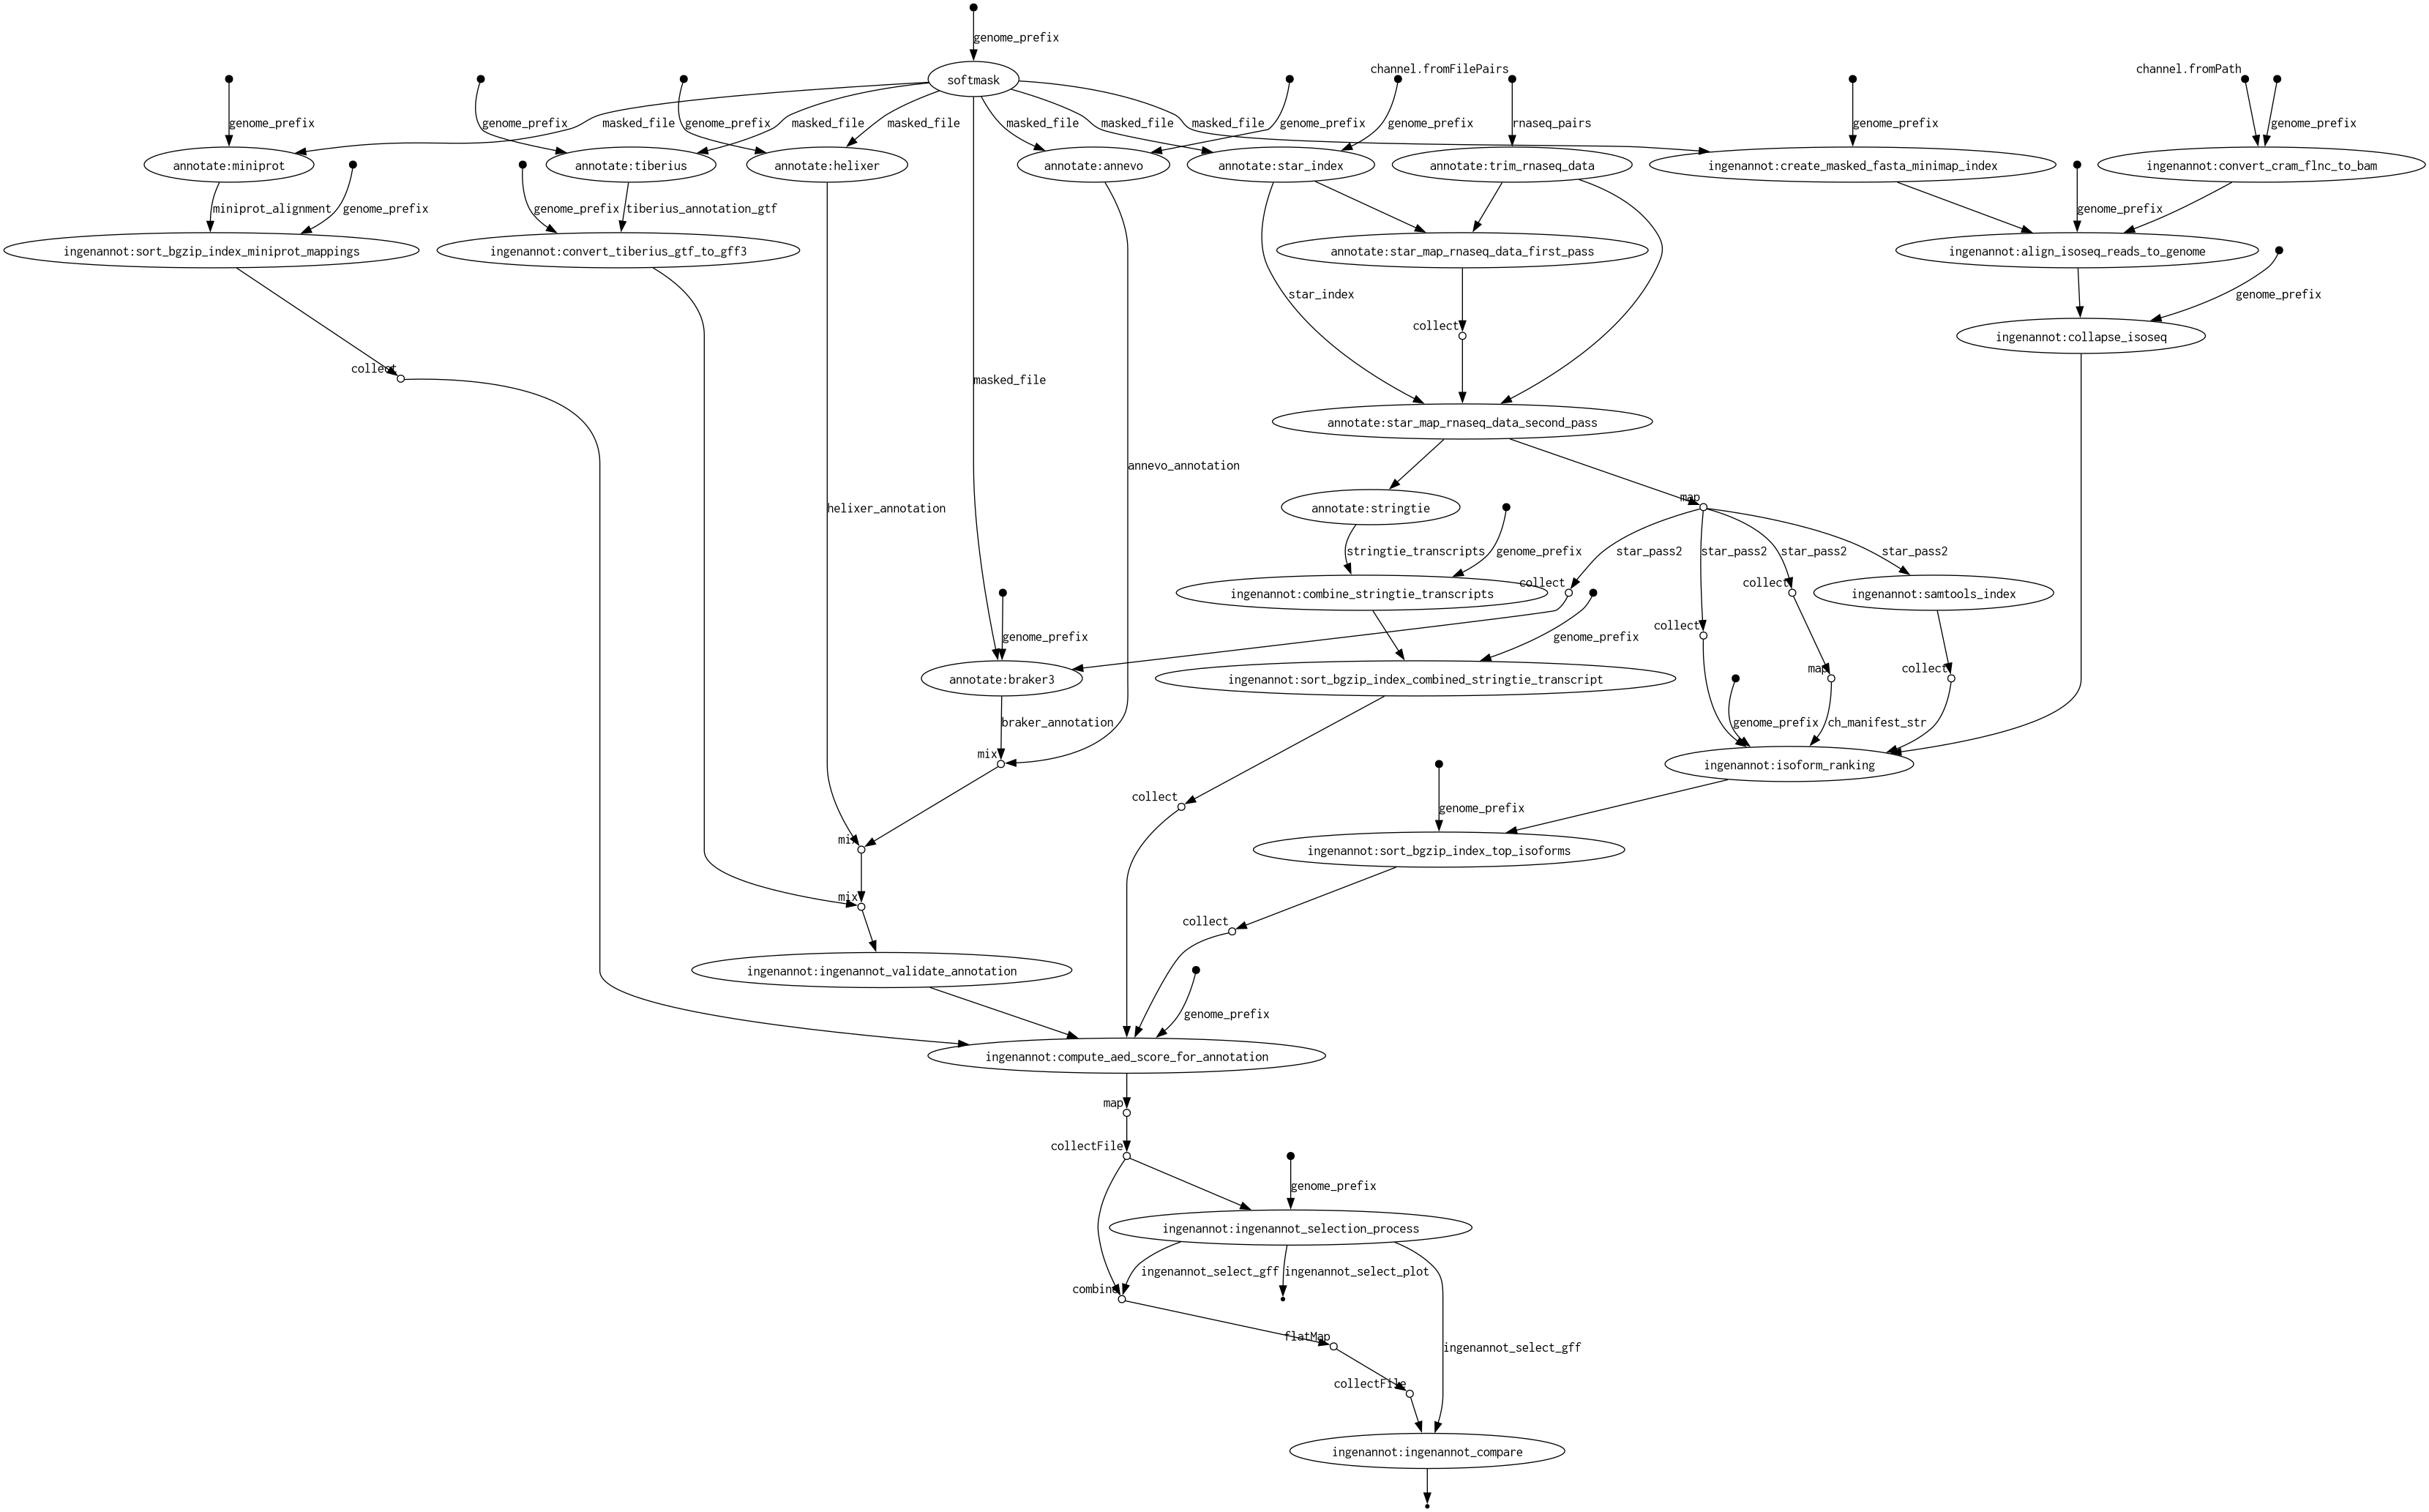
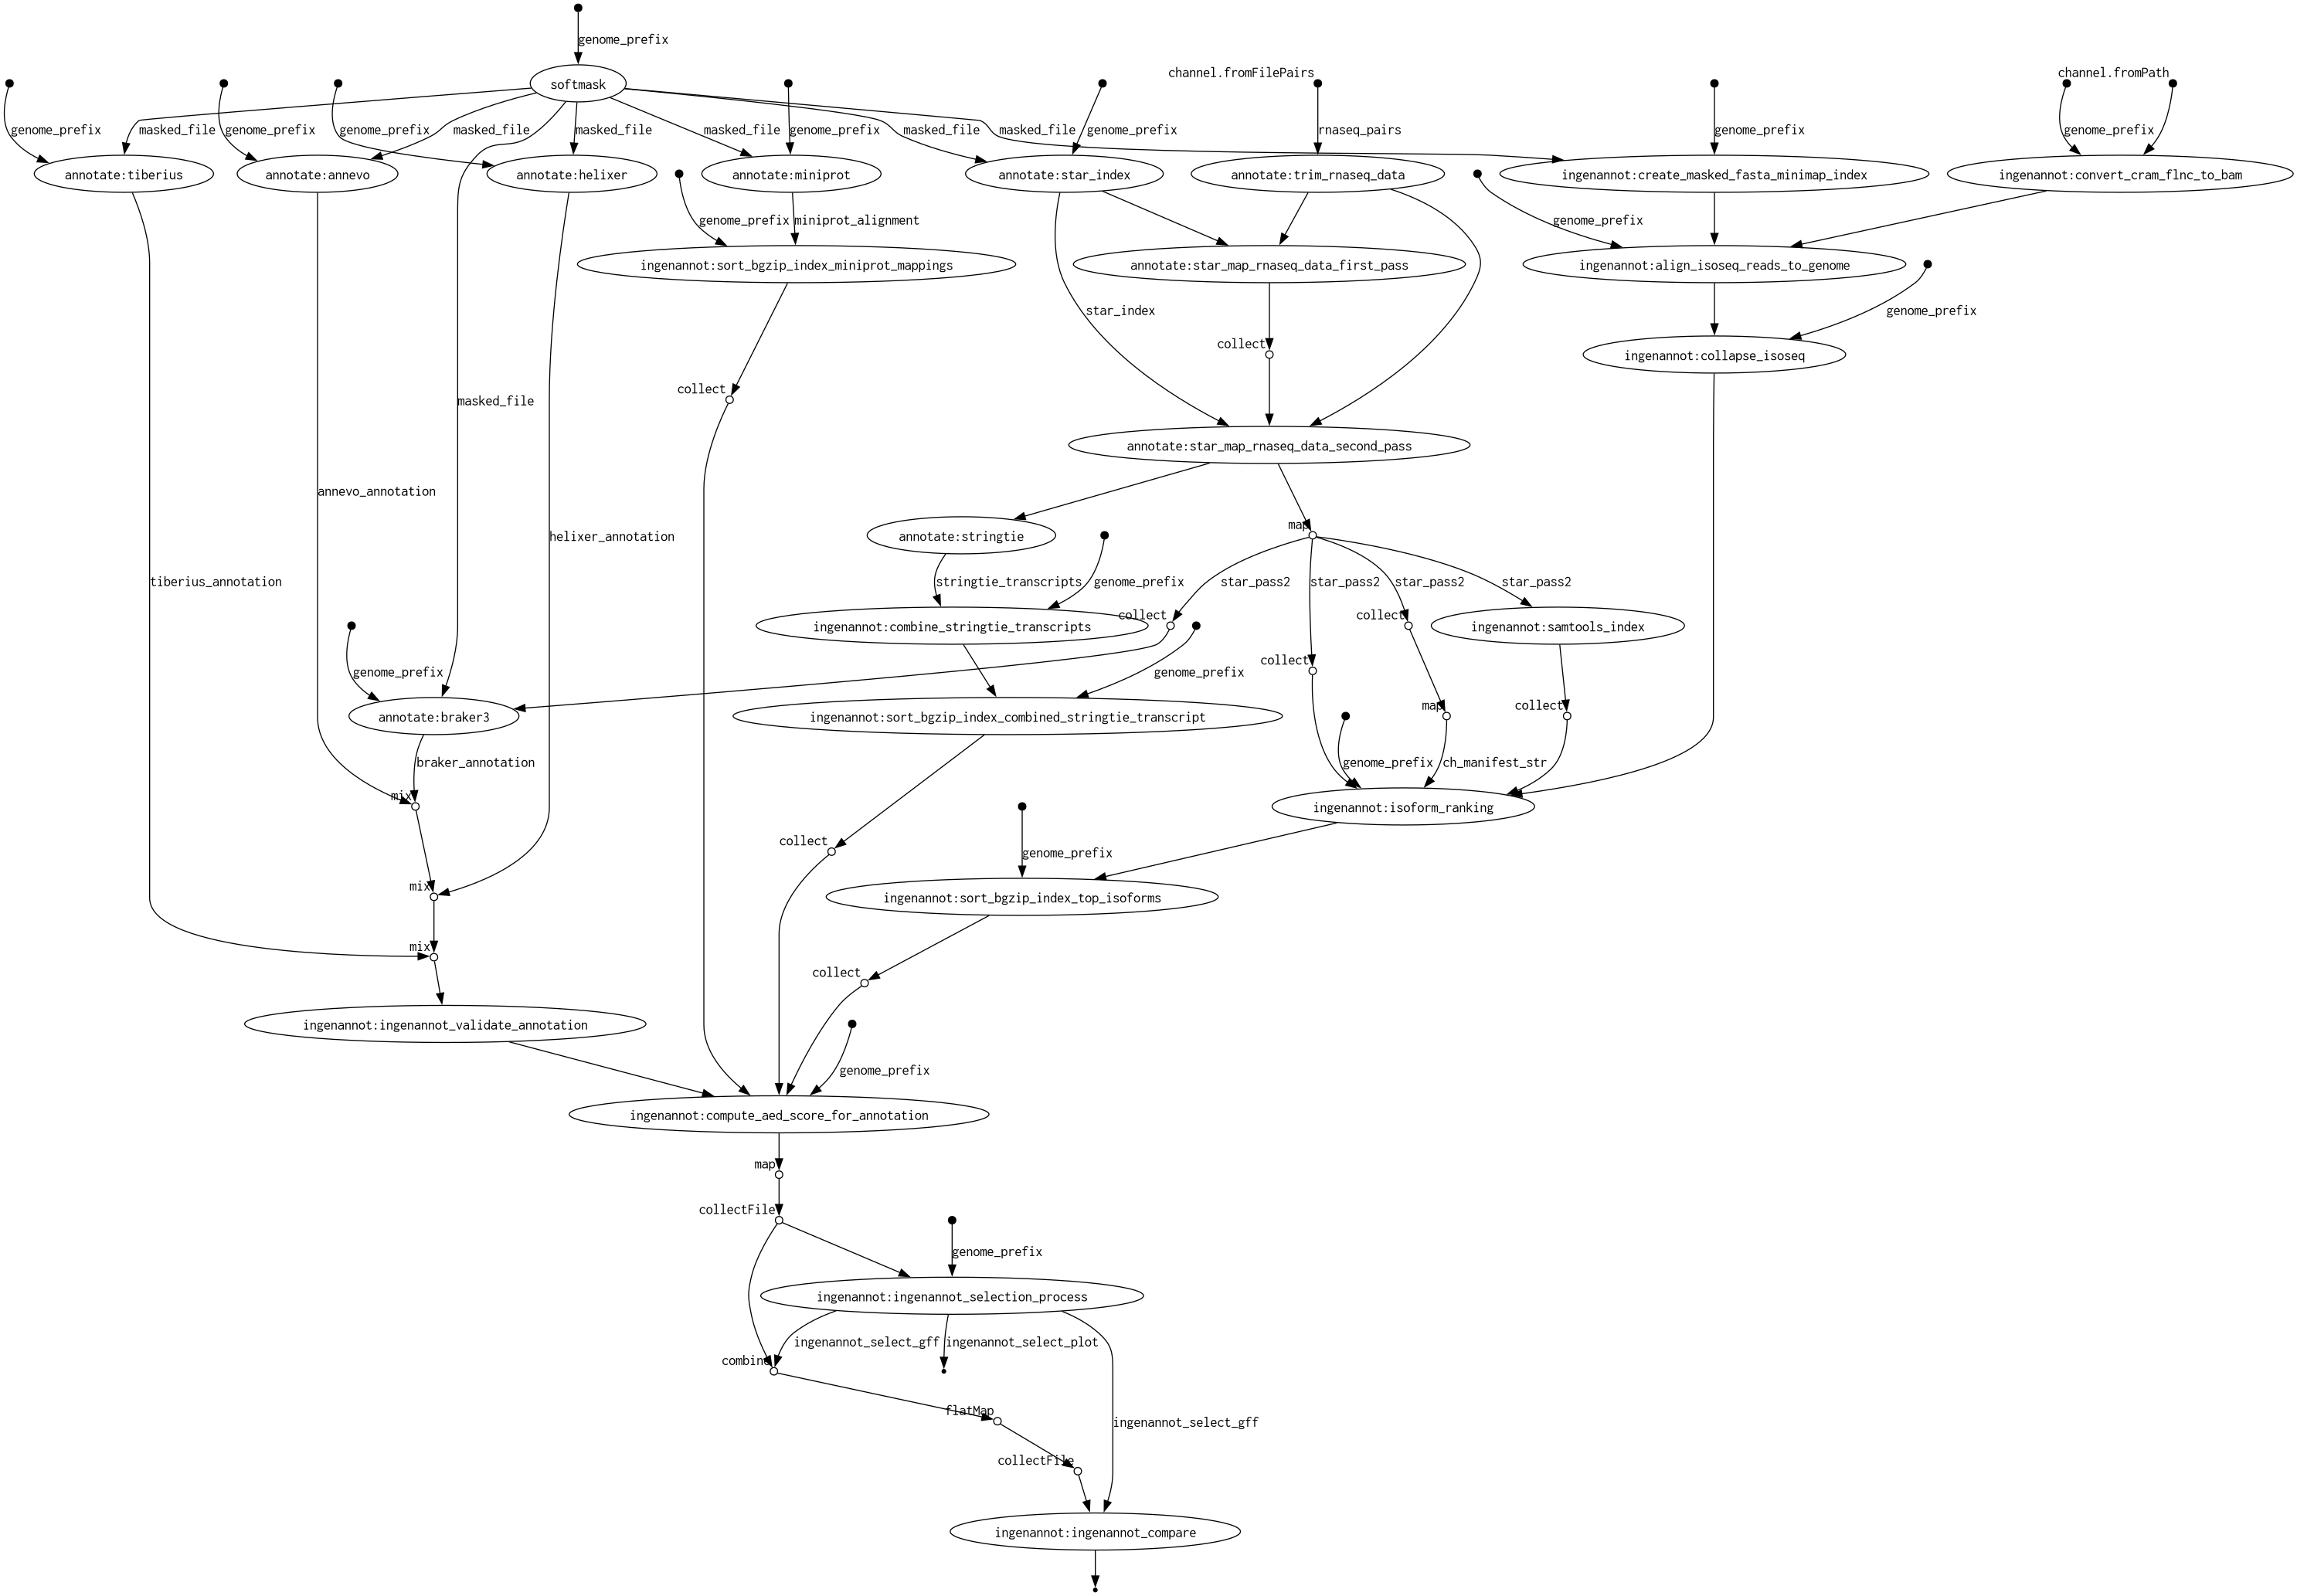
Tiberius 1.1.8 and 2.0.6

diff --git a/LICENSE.md b/LICENSE.md
@@ -1,5 +1,3 @@
-
-
 Copyright 2026 Informatics @ John Innes Center
 
 Permission is hereby granted, free of charge, to any person obtaining a copy of this software and associated documentation files (the “Software”), to deal in the Software without restriction, including without limitation the rights to use, copy, modify, merge, publish, distribute, sublicense, and/or sell copies of the Software, and to permit persons to whom the Software is furnished to do so, subject to the following conditions:

diff --git a/README.md b/README.md
@@ -1,0 +1,2 @@
+# Ingenannot Pipeline
+![Workflow Diagram](https://github.com/Informatics-John-Innes-Centre/ingenannot-pipeline/blob/master/flowchart.png?raw=true)